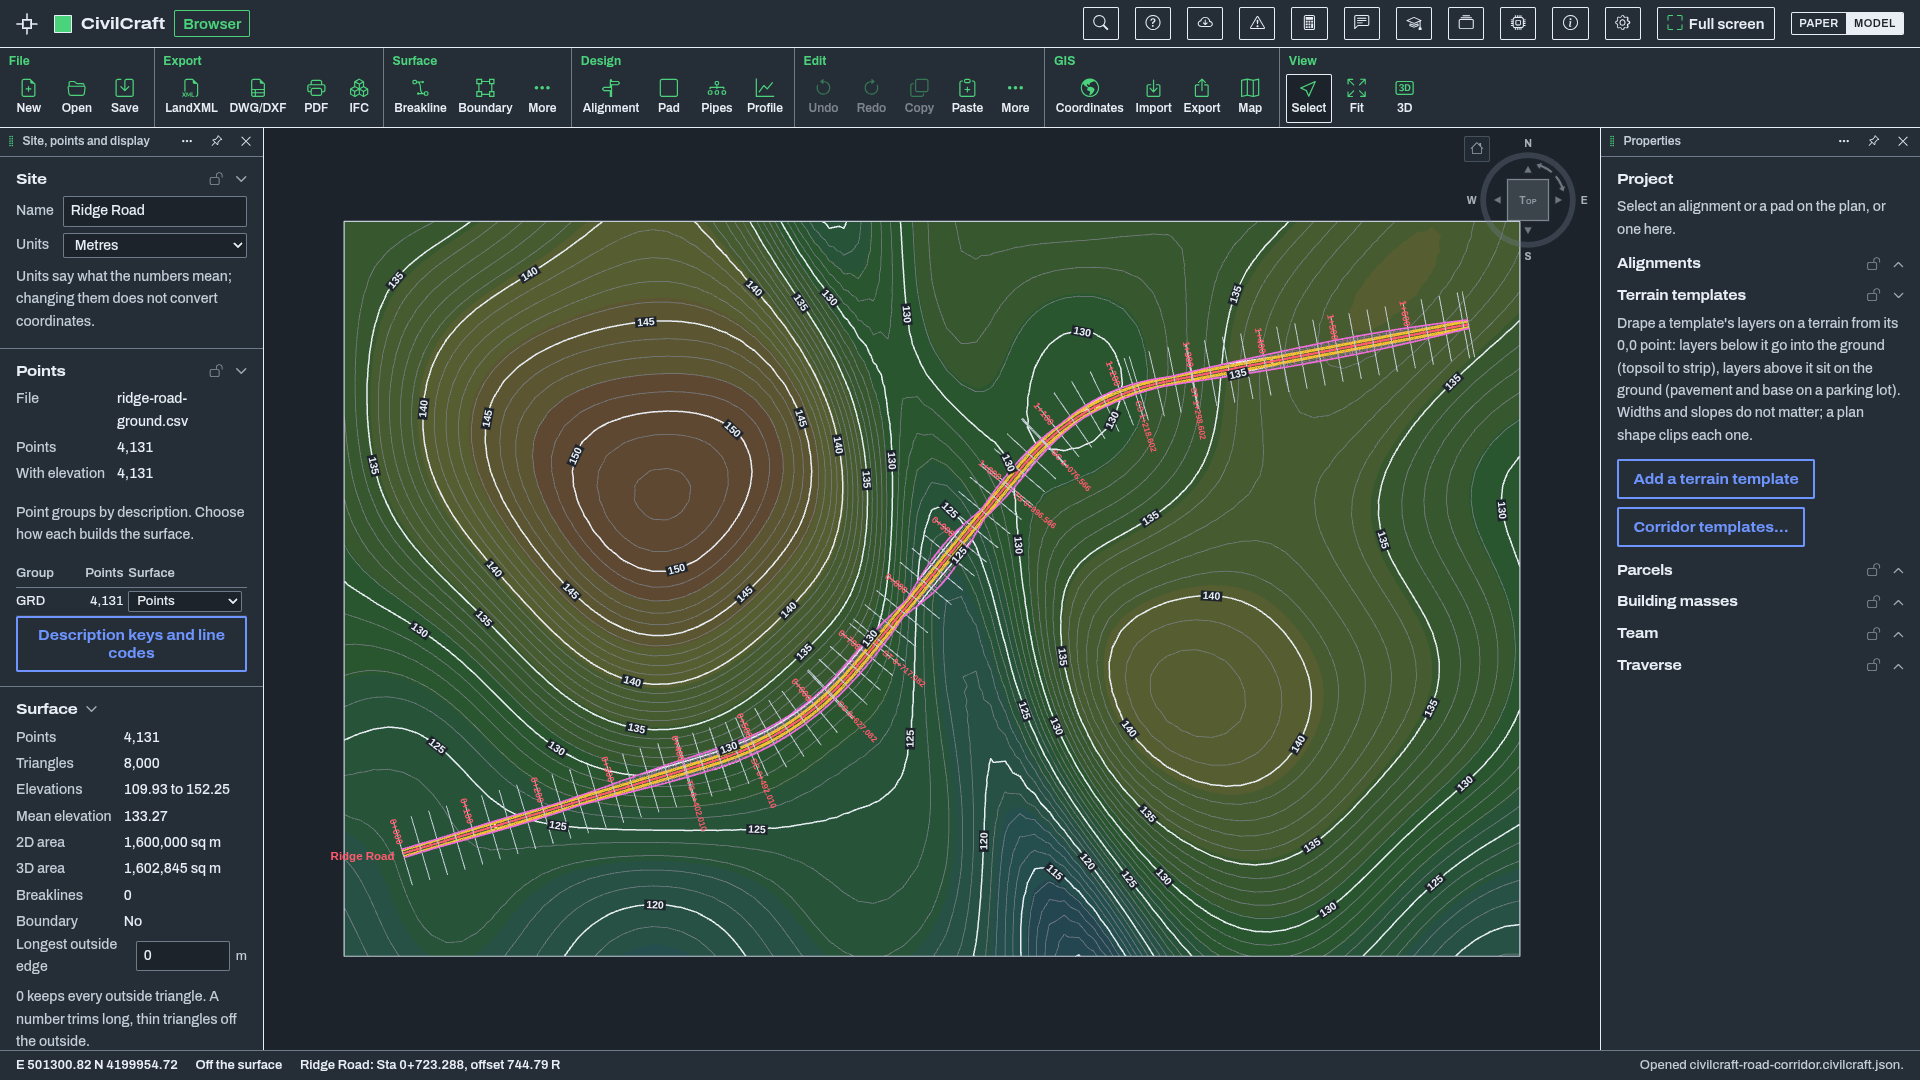
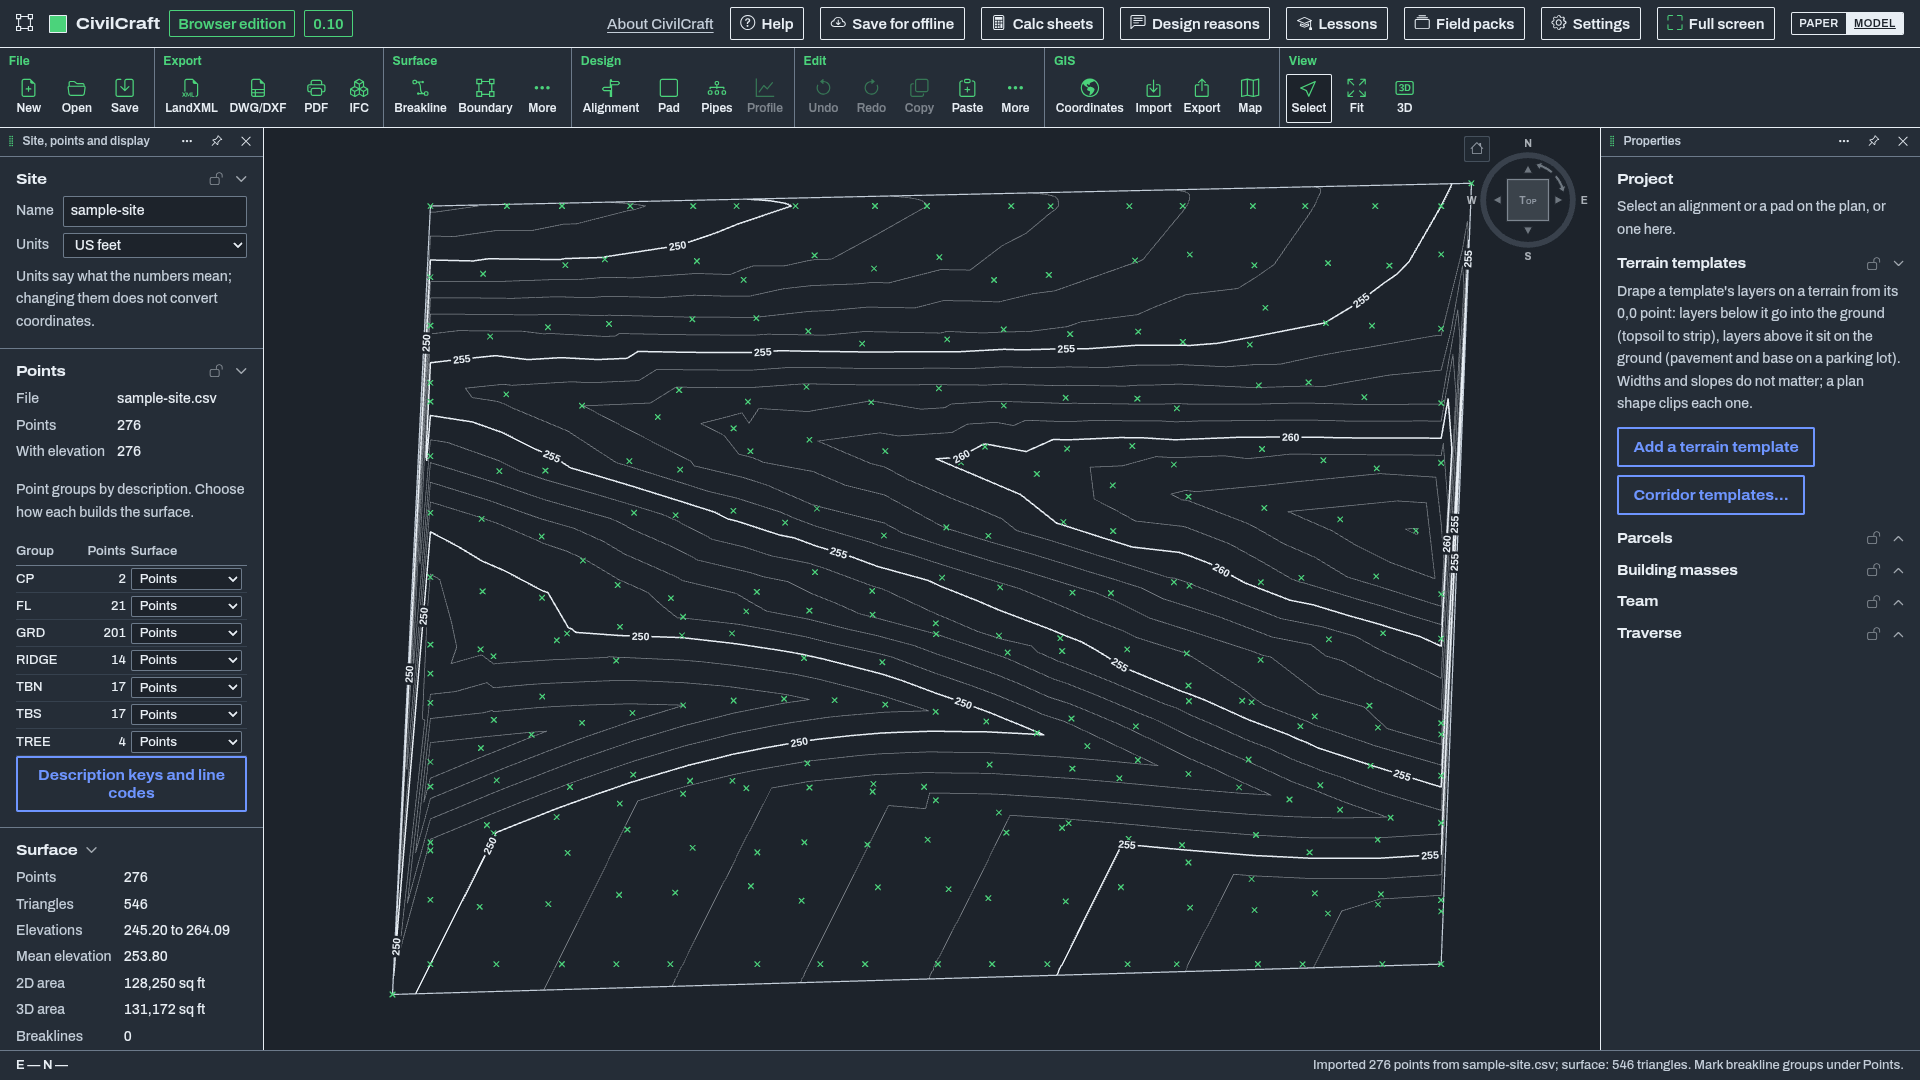
README: 0.10 screenshots (the released 0.10 browser edition, dark theme)

diff --git a/README.md b/README.md
@@ -6,9 +6,9 @@ From survey points to finished grade.
 
 **[Website](https://getcadcraft.com/apps/civilcraft) | [Use it in your browser](https://getcadcraft.com/use/civilcraft) | [Download CadCraft Studio](https://getcadcraft.com/download#studio) | [Help and tutorials](https://getcadcraft.com/tutorials/civilcraft) | [News](https://getcadcraft.com/news) | [Suggest a feature](https://getcadcraft.com/suggest)**
 
-[![CivilCraft 0.9](screenshots/paper.png)](https://getcadcraft.com/use/civilcraft)
+[![CivilCraft 0.10](screenshots/paper.png)](https://getcadcraft.com/use/civilcraft)
 
-<sub>CivilCraft 0.9 in the browser, dark theme. [A second view](screenshots/model.png).</sub>
+<sub>CivilCraft 0.10 in the browser, dark theme. [A second view](screenshots/model.png).</sub>
 
 CivilCraft is the civil & site design app in the [CadCraft](https://getcadcraft.com) family: Surfaces from points and breaklines, alignments, profiles, corridors, grading and pipe networks. LandXML in and out.
 
